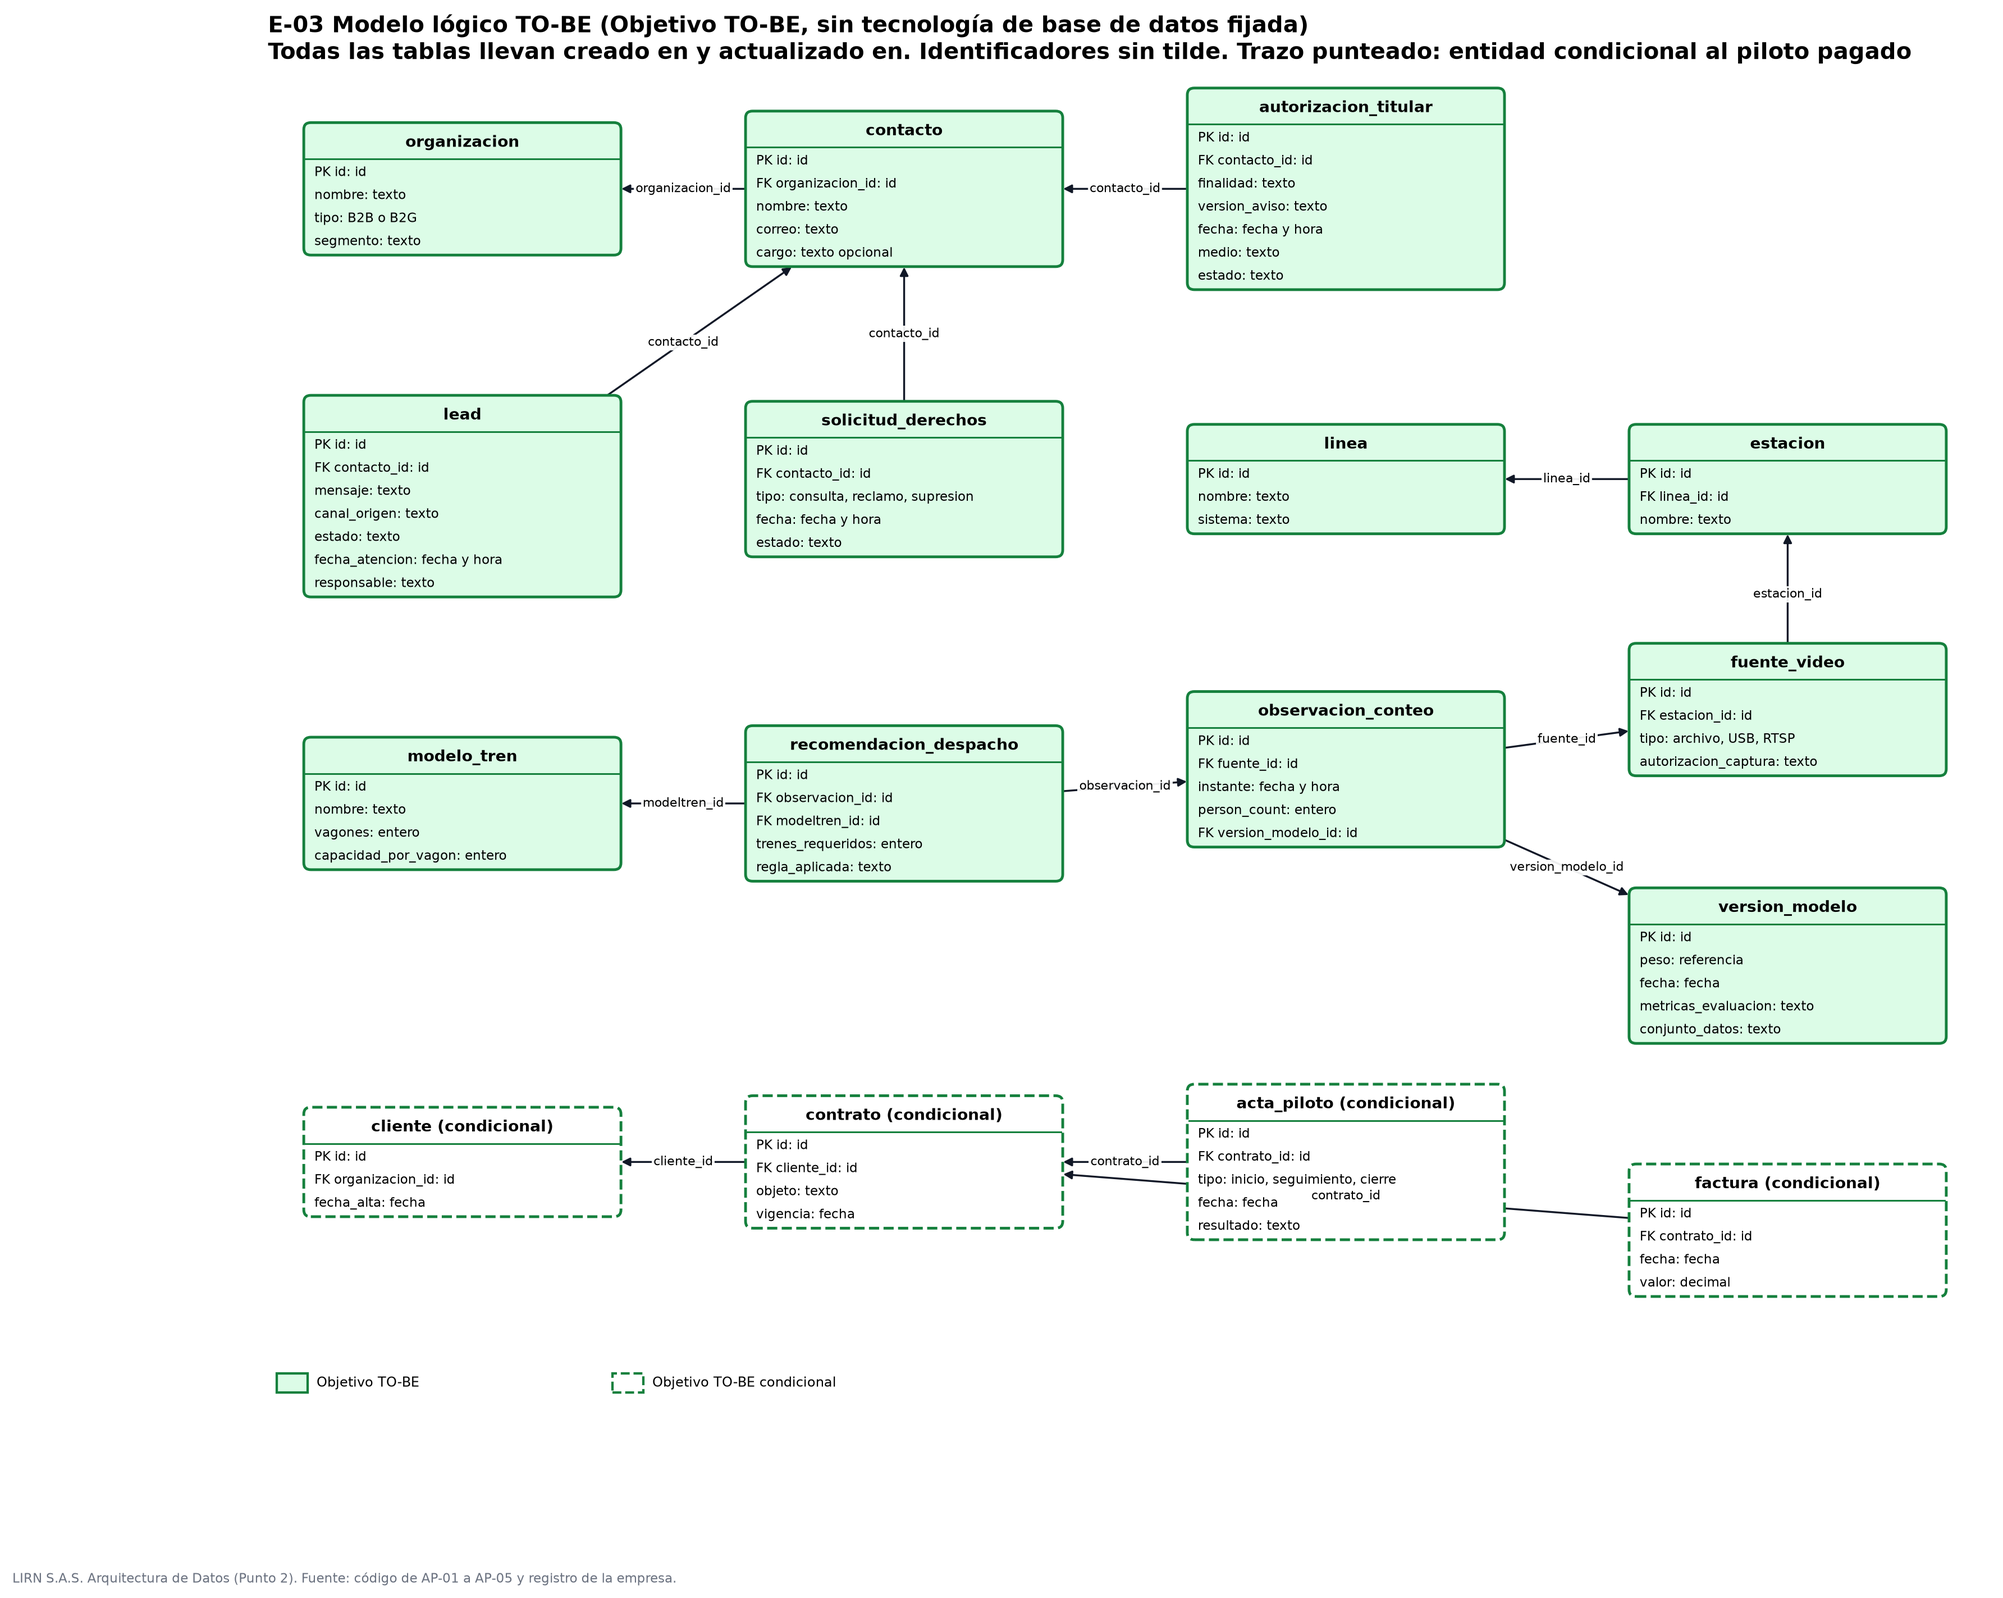
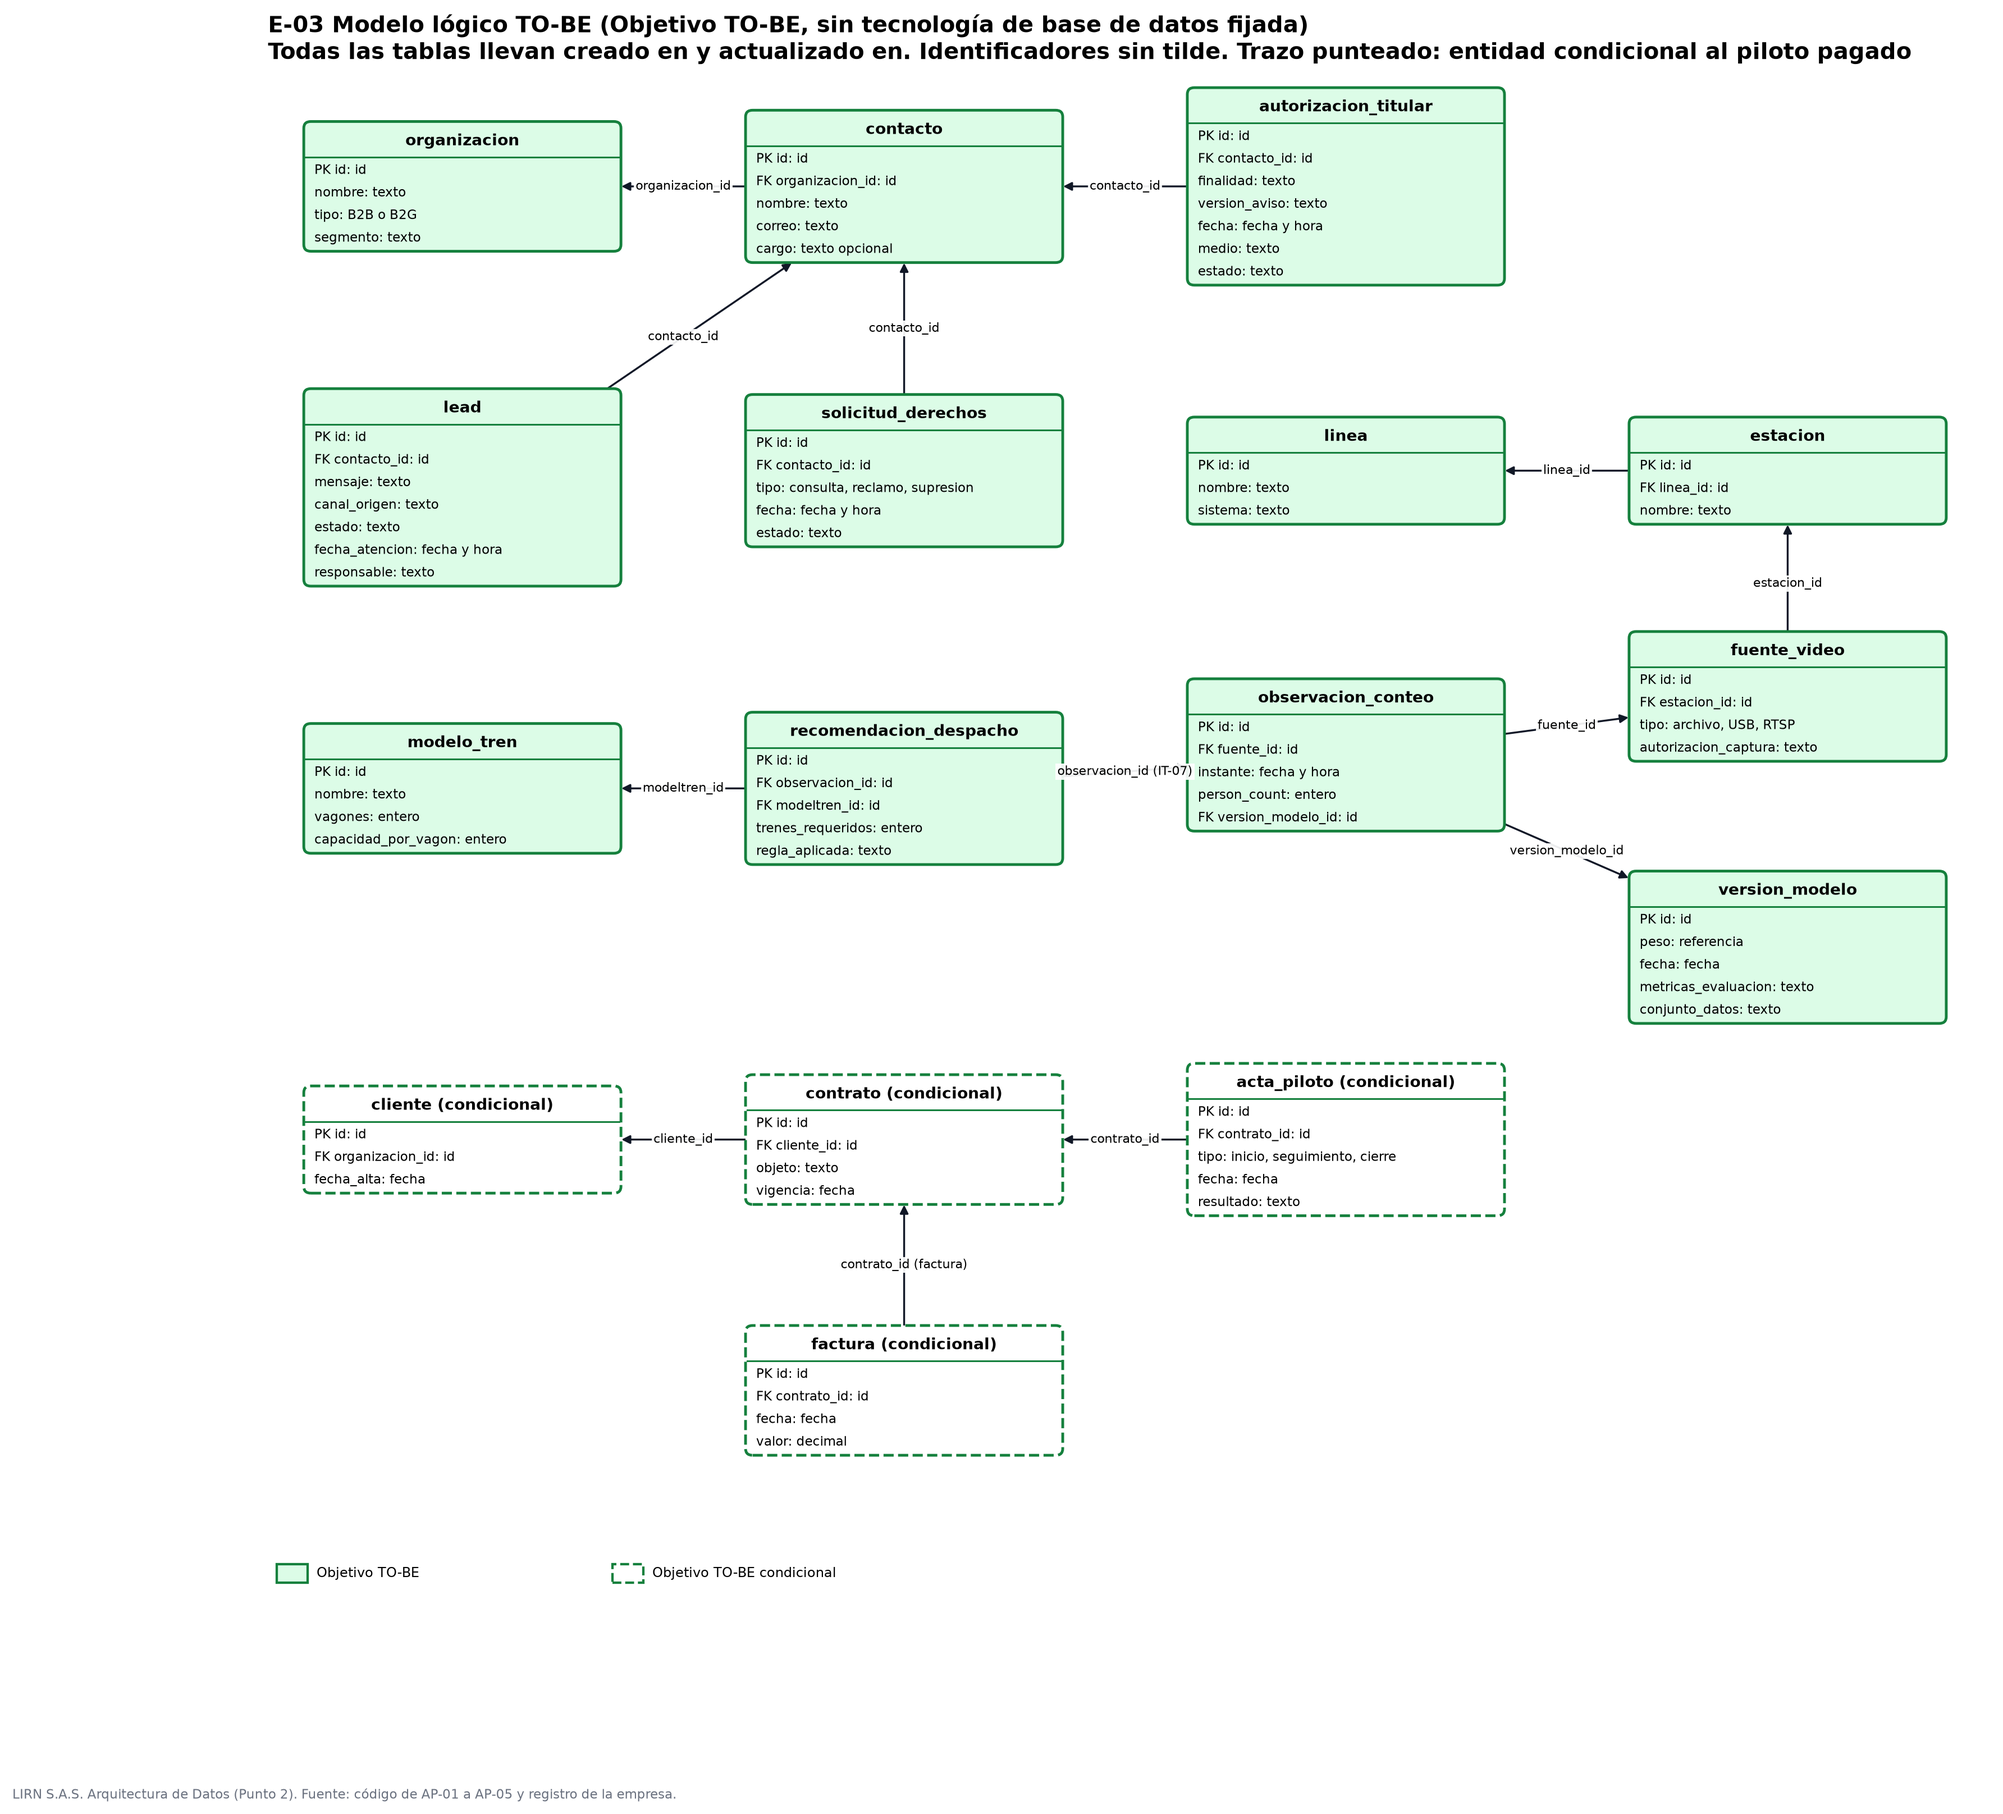
M2 datos: seguimiento PR #1 (sin referencias internas, columnas de E-04 renombradas, F-15 fuera de aplicación, rótulos IT-07 y factura en el lógico TO-BE)

diff --git a/docs/ae-final-project/ondas/M2-datos/entregable-punto-2.md b/docs/ae-final-project/ondas/M2-datos/entregable-punto-2.md
@@ -82,7 +82,7 @@ Los flujos se agrupan en tres familias: técnico (FL-T, procesos P-03 y P-04), c
 | F-12 | AP-05 (my_model.pt) | Archivo de pesos, leído por ruta; el archivo se obtiene por copia manual de best.pt desde AP-04 | AP-03 | I-06, I-11 | Persistente | Observado |
 | F-13 | Equipo del fundador | Código y artefactos, incluida la base de AP-08 | Repositorio público en AP-07 | I-13 | Persistente | Observado |
 | F-14 | Encuestados | Respuestas recogidas en AP-13 Google Forms | Resumen agregado | I-16 | Persistente | Observado (registro) / NO CONFIRMADO (uso vigente de AP-13 Google Forms) |
-| F-15 | Controlador SITP | Notas por rol | Documento de evidencia | I-16 | Persistente | Observado (registro) / NO CONFIRMADO (soporte) |
+| F-15 | Controlador SITP | Notas por rol | Documento de evidencia | I-16 (fuera de aplicación) | Persistente | Observado (registro) / NO CONFIRMADO (soporte) |
 | F-16 | Evidencia agregada | Resultados agregados | Visitantes y evaluadores, vía AP-01 | I-12 | Persistente | Observado |
 | F-17 | AP-03, lectura de D-04 | Identificador, archivo y nombre visible de cada fuente | AP-02 | I-01 | No | Observado |
 
@@ -152,7 +152,7 @@ Se aplican los criterios de la Arquitectura de Negocio: seguridad corporativa en
 
 ### 6.1 Requisitos de datos
 
-Los requisitos citados se definen así. El Líder los enlaza con los requisitos de la hoja de ruta.
+Los requisitos citados se definen así y se enlazan con los requisitos de la hoja de ruta.
 
 | Código | Requisito de datos | Problema que cierra | Marca |
 |---|---|---|---|
